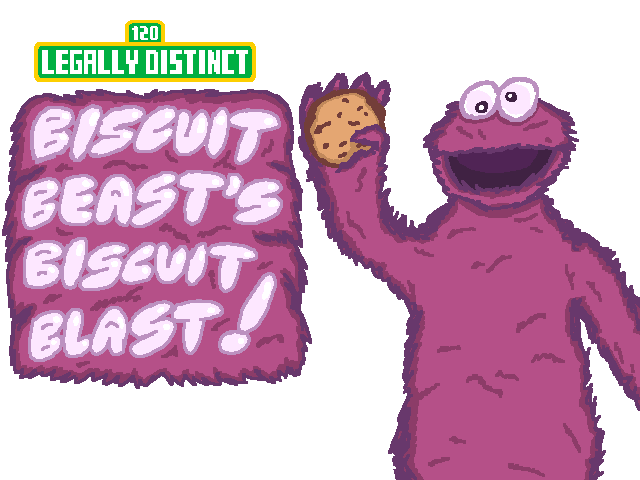
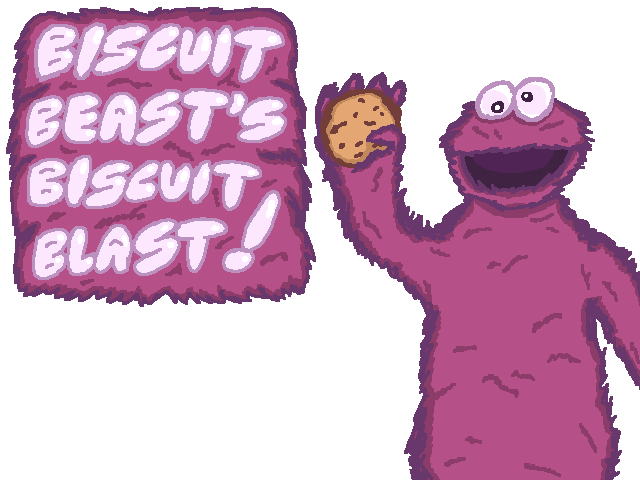
changed main menu text

diff --git a/src/scenes/Menu.js b/src/scenes/Menu.js
@@ -14,13 +14,15 @@ class Menu extends Phaser.Scene {
     create() {
         let menuConfig = {
             fontFamily: 'Cursive',
-            fontSize: '28px',
-            backgroundColor: '#F3B141',
-            color: '#843605',
-            align: 'right',
+            fontSize: '20px',
+            //backgroundColor: '#B55088',
+            color: '#FDE7FF',
+            align: 'left',
             padding: {
                 top: 5,
                 bottom: 5,
+                left: 5,
+                right: 5
             },
             fixedWidth: 0
         }
@@ -36,12 +38,12 @@ class Menu extends Phaser.Scene {
         this.add.sprite(0, 0, 'clouds').setOrigin(0, 0).play('float');
         this.add.sprite(0, 0, 'title').setOrigin(0, 0);
         
-
-        this.add.text(game.config.width/2, game.config.height/2 - borderUISize - borderPadding, 'ROCKET PATROL', menuConfig).setOrigin(0.5);
-        this.add.text(game.config.width/2, game.config.height/2, 'Use ← → arrows to move & [F] to fire', menuConfig).setOrigin(0.5);
-        menuConfig.backgroundColor = "#00FF00";
-        menuConfig.color = "#008800";
-        this.add.text(game.config.width/2, game.config.height/2 + borderUISize + borderPadding, 'Press ← for Novice or → for Expert', menuConfig).setOrigin(0.5);
+        this.add.text(2.05 * game.config.width/3, game.config.height/2, 'P1 CONTROLS:\nMove: [A], [D]\nFire: [W]', menuConfig).setOrigin(0);
+        this.add.text(2.05 * game.config.width/3, 3 * game.config.height/4, 'P2 CONTROLS:\nMove: [J], [L]\nFire: [I]', menuConfig).setOrigin(0);
+        menuConfig.backgroundColor = '#B55088';
+        menuConfig.align = 'center';
+        menuConfig.fontSize = '24px';
+        this.add.text(game.config.width/9, 1.75 * game.config.height/3 + borderUISize + borderPadding, 'PRESS\n[<-] for Novice\nOR\n[->] for Expert', menuConfig).setOrigin(0);
 
         keyLEFT = this.input.keyboard.addKey(Phaser.Input.Keyboard.KeyCodes.LEFT);
         keyRIGHT = this.input.keyboard.addKey(Phaser.Input.Keyboard.KeyCodes.RIGHT);

diff --git a/src/main.js b/src/main.js
@@ -8,6 +8,7 @@ Points breakdown:
 - Redesign the game's artwork, UI, and sound to change its theme/aesthetic (to something other than sci-fi) (60)
 - Implement a simultaneous two-player mode (30)
 - Allow the player to control the Rocket after it's fired (5)
+- ... (5)
 ***********************/
 
 let config = {

diff --git a/src/scenes/Play.js b/src/scenes/Play.js
@@ -91,6 +91,8 @@ class Play extends Phaser.Scene {
             padding: {
                 top: 5,
                 bottom: 5,
+                left: 5,
+                right: 5
             },
             fixedWidth: 100
         }
